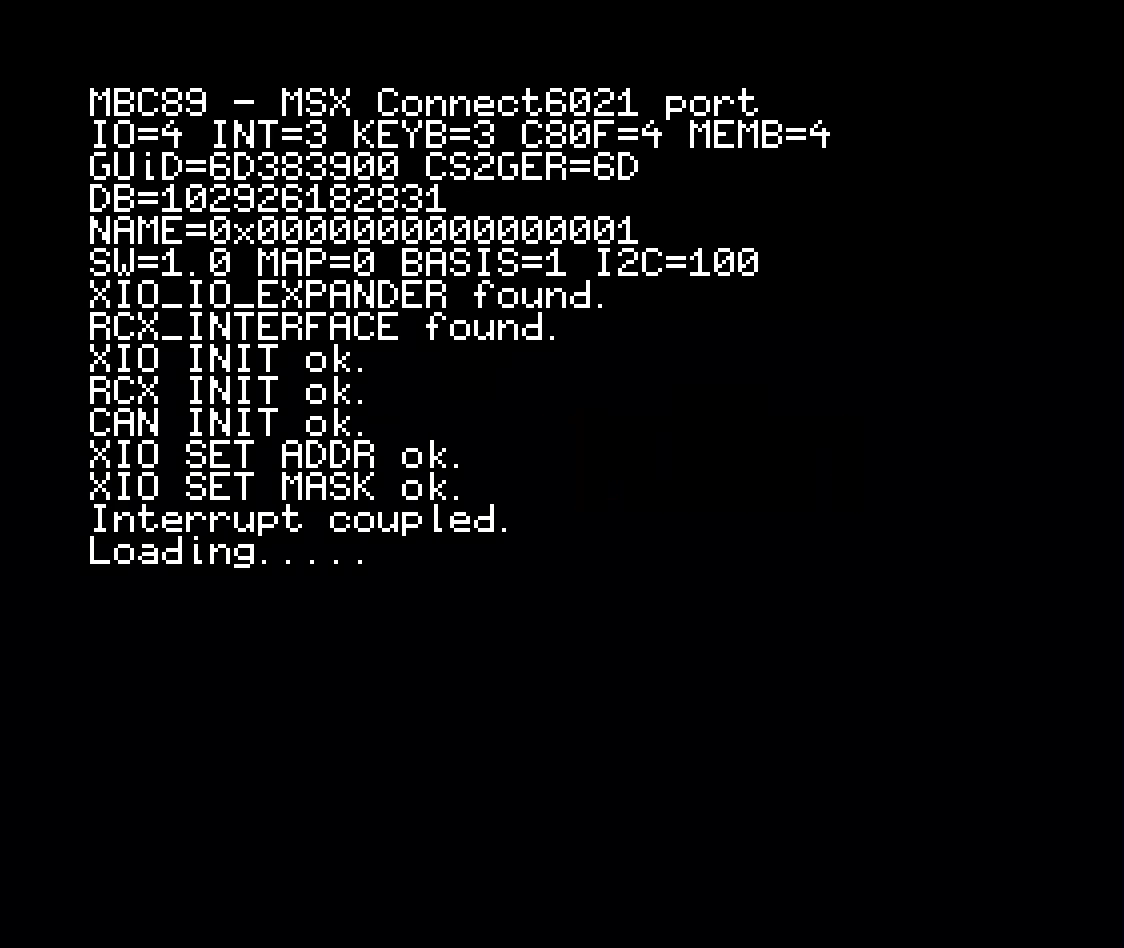
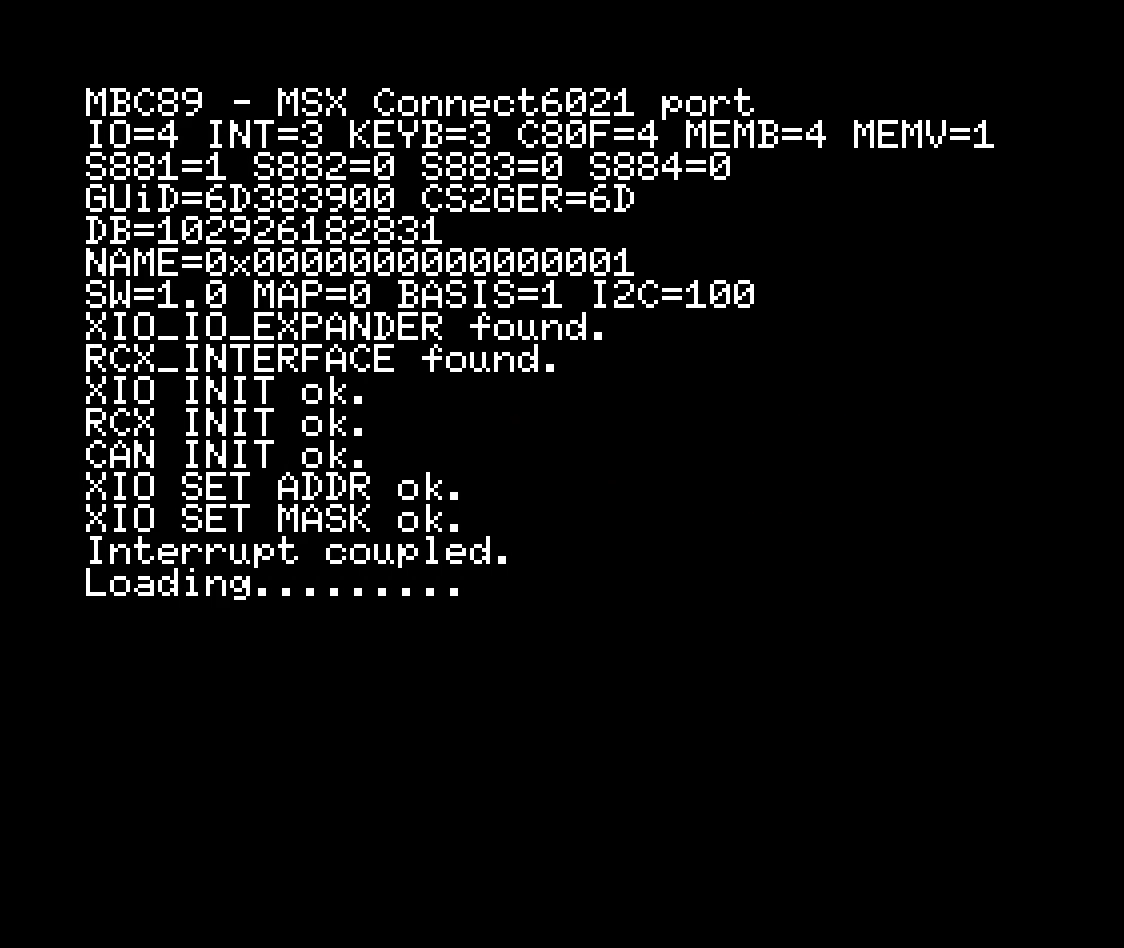
mbc89: operating manual with panel pictures
MANUAL.md explains starting (environment variables), the carousel and
every panel: Keyboard 6040, Control Unit 6021 / Control 80f and
Memory 6043 with recording, interlocking and s88 automatic mode.
Linked from the README. Boot screen and Memory pictures updated to
the current version.

Changed region(s): [[0.0623, 0.0918, 0.903, 0.6424]]

diff --git a/mbc89/MANUAL.md b/mbc89/MANUAL.md
@@ -1,0 +1,181 @@
+# mbc89 - Operating Manual
+
+mbc89 turns an MSX into a Maerklin Connect6021 module on the CS2/CS3 CAN bus. Its panels stand in for
+the devices of the old Maerklin 6021 system: Keyboard 6040, Control Unit 6021, Control 80f and
+Memory 6043. Everything is operated with the MSX keyboard.
+
+## 1. Starting
+
+mbc89 needs MSX-DOS 2 and reads its settings from environment variables. Put them into a batch file,
+for example `START.BAT`:
+
+```bat
+SET IO=4
+SET INT=3
+SET KEYB=3
+SET C80F=4
+SET MEMB=4
+SET MEMV=1
+SET S881=1
+SET S882=4
+SET S883=0
+SET S884=0
+MBC89
+```
+
+| Variable | Range | Meaning |
+| --- | --- | --- |
+| `IO` | 0-254 | I/O address of the CAN card (RC2014 card E) |
+| `INT` | 0-7 | interrupt channel of the XIO cartridge |
+| `KEYB` | 0-16 | number of Keyboard 6040 panels |
+| `C80F` | 0-8 | number of Control 80f panels |
+| `MEMB` | 0-4 | number of Memory 6043 panels |
+| `MEMV` | 0-1 | route interlocking of all Memory panels (1 = on) |
+| `S881`-`S884` | 0-93 | s88 module address of button row A of Memory 1-4, 0 = no feedback modules; needed for each Memory counted in `MEMB` |
+
+If a variable is missing or out of range, mbc89 names it and returns to the DOS prompt.
+
+After a splash screen, a boot screen shows the settings, the stored module data and the start of the
+CAN card. About ten seconds later the panels appear. `ESC` quits mbc89.
+
+On the first start the module still needs a GUiD: start ParaCenter and register mbc89 there,
+otherwise the CS2/CS3 does not take it in.
+
+## 2. Moving around
+
+| Key | Effect |
+| --- | --- |
+| Cursor keys | move the frame from button to button |
+| `SPACE` | presses the framed button |
+| `ESC` | quits mbc89 |
+
+All panels sit side by side on a carousel. The two triangles at the left and right edge are buttons as
+well: frame one and press `SPACE` to move to the neighbouring panel. Order from left to right:
+
+```
+Memory 4 ... Memory 1 | Keyboard n ... Keyboard 1 | CU6021 | Control 80f 1 ... Control 80f n
+```
+
+mbc89 starts on the CU6021. The number in the top left corner shows which Keyboard (white) or
+Memory (yellow) is on screen.
+
+## 3. Keyboard 6040
+
+![Keyboard 6040 panel](images/panel_keyboard.png)
+
+Two blocks of 8 accessories (turnouts, signals), each with a red button on top and a green one below.
+The dot between the two buttons is the LED: red or green shows the last switched direction.
+
+- `SPACE` on a red or green button switches the accessory and lights the matching LED.
+- The LEDs follow the CAN bus: an accessory switched on the CS2/CS3, by a Memory route or elsewhere
+  shows up here too, even while another panel is on screen.
+- Each Keyboard has its own block of 16 accessory addresses.
+- While the system is stopped (see CU6021), the buttons do nothing.
+
+## 4. Control Unit 6021 and Control 80f
+
+![Control Unit 6021 panel](images/panel_cu6021.png)
+
+![Control 80f panel](images/panel_c80f.png)
+
+Both control a locomotive. There is one CU6021; Control 80f panels work the same way and can control
+further locomotives at the same time.
+
+| Button / key | Effect |
+| --- | --- |
+| `1`-`9`, `0` | enter the locomotive address, two digits (01-80); a third digit starts a new address |
+| `f1`-`f4` | switch function 1-4 on and off |
+| `f0` / `off` | switch the light (function 0) on / off |
+| `stp` / `go` | stop / start the whole layout |
+| `U` / `D` (MSX keys) | speed one step up / down (15 steps) |
+| `R` (MSX key) | change direction |
+
+- A complete address blinks if the locomotive cannot be controlled: it is not known to the
+  CS2/CS3, or another CU6021/Control 80f already holds it (a locomotive can only be called up on one
+  controller at a time).
+- When an address is entered, the panel takes over the current speed, direction and functions of the
+  locomotive.
+- While the layout is stopped, only `go` works; all other buttons on all panels do nothing.
+- `L` and `F` have no function.
+- The knob shows the speed. LEDs show the switched-on functions `f0`-`f4`, the direction (the dots at
+  `L` and `F`) and, at `go`, that the layout is running; without a controllable locomotive they stay dark.
+
+## 5. Memory 6043
+
+![Memory 6043 panel](images/panel_memory.png)
+
+The small dot above a button is its LED (in the picture: the dot above `ex` - this Memory is in
+automatic mode).
+
+A Memory stores up to 24 routes (A1-A8, B1-B8, C1-C8). A route is a list of up to 20 accessory
+commands, recorded from the Keyboard panels. Routes are stored in `MBC89R.CFG` and survive a restart.
+
+### 5.1 Recording a route
+
+1. `in` - the `in` LED lights up.
+2. Route button (for example `A1`).
+3. Move to a Keyboard panel and switch the accessories of the route.
+4. Back to the Memory, `end` - the `in` LED goes out.
+
+During recording, `clr` removes the last command. Switching an accessory again replaces its earlier
+command instead of adding a new one.
+
+### 5.2 Calling up and releasing
+
+| Action | Keys |
+| --- | --- |
+| set a route | route button - its LED lights up, the route is now valid |
+| release a valid route | `clr`, then the route button (the `clr` LED lights while it waits; `end` cancels) |
+| delete a route completely | `in`, `clr`, route button |
+
+A valid route goes out by itself as soon as one of its accessories is switched the other way, on a
+Keyboard, on the CS2/CS3 or by another route.
+
+### 5.3 Interlocking (`MEMV=1`)
+
+Two routes cross when they switch the same accessory in different directions.
+
+- Without interlocking, every route is set at once; valid routes it crosses go out.
+- With interlocking, a route that crosses a valid route of the same Memory is not set. Instead the
+  crossing routes and the called one blink for about 5 seconds. Pressing one of the blinking routes
+  sets it anyway; without a press the old route stays valid.
+- A follow-up route that would cross a valid route is skipped.
+
+### 5.4 Automatic mode with s88 feedback modules
+
+`extern` switches a Memory to automatic mode, `off` back to manual (the `ex` / `off` LED shows which).
+In automatic mode the route buttons still work; in addition, contacts of s88 feedback modules (mbc88,
+mbc90) call up routes.
+
+Each Memory uses three s88 modules, one per button row:
+
+| Module address | Row | Contacts 1-8 | Contacts 9-16 |
+| --- | --- | --- | --- |
+| `S88x` | A | request route A1-A8 | release input A1-A8 |
+| `S88x` + 1 | B | request route B1-B8 | release input B1-B8 |
+| `S88x` + 2 | C | request route C1-C8 | release input C1-C8 |
+
+- Without interlocking, a request sets the route at once; release inputs are not used.
+- With interlocking:
+  - Simultaneous requests are served in the order A1, A2, ... C8.
+  - A request that cannot be set because of a crossing valid route is stored and set as soon as that
+    route is released.
+  - A release input releases its valid route when the contact is occupied, so that a crossing route
+    can be set.
+  - While a release input is occupied, a request for its route is ignored and not stored.
+
+The s88 modules must be set up in ParaCenter with consecutive module addresses, like the three s88
+behind a real Memory.
+
+### 5.5 After a restart
+
+Valid routes and the automatic/manual mode of each Memory are restored.
+
+## 6. Files
+
+| File | Content |
+| --- | --- |
+| `MBC89.CFG` | module data set in ParaCenter or on the CS2/CS3 (GUiD, name, mapping, keyboard base address, ...) |
+| `MBC89R.CFG` | Memory routes, valid routes and automatic/manual mode |
+
+Both files are written to the current drive.

diff --git a/mbc89/README.md b/mbc89/README.md
@@ -61,6 +61,8 @@ types is included: [`images/startup.mp4`](images/startup.mp4).
 
 ## Panels
 
+How to operate every panel, step by step and with pictures: [MANUAL.md](MANUAL.md).
+
 All four panel types share one carousel (two triangle sprites, `SPACE` switches between instances)
 and the same bidirectional CAN wiring:
 
